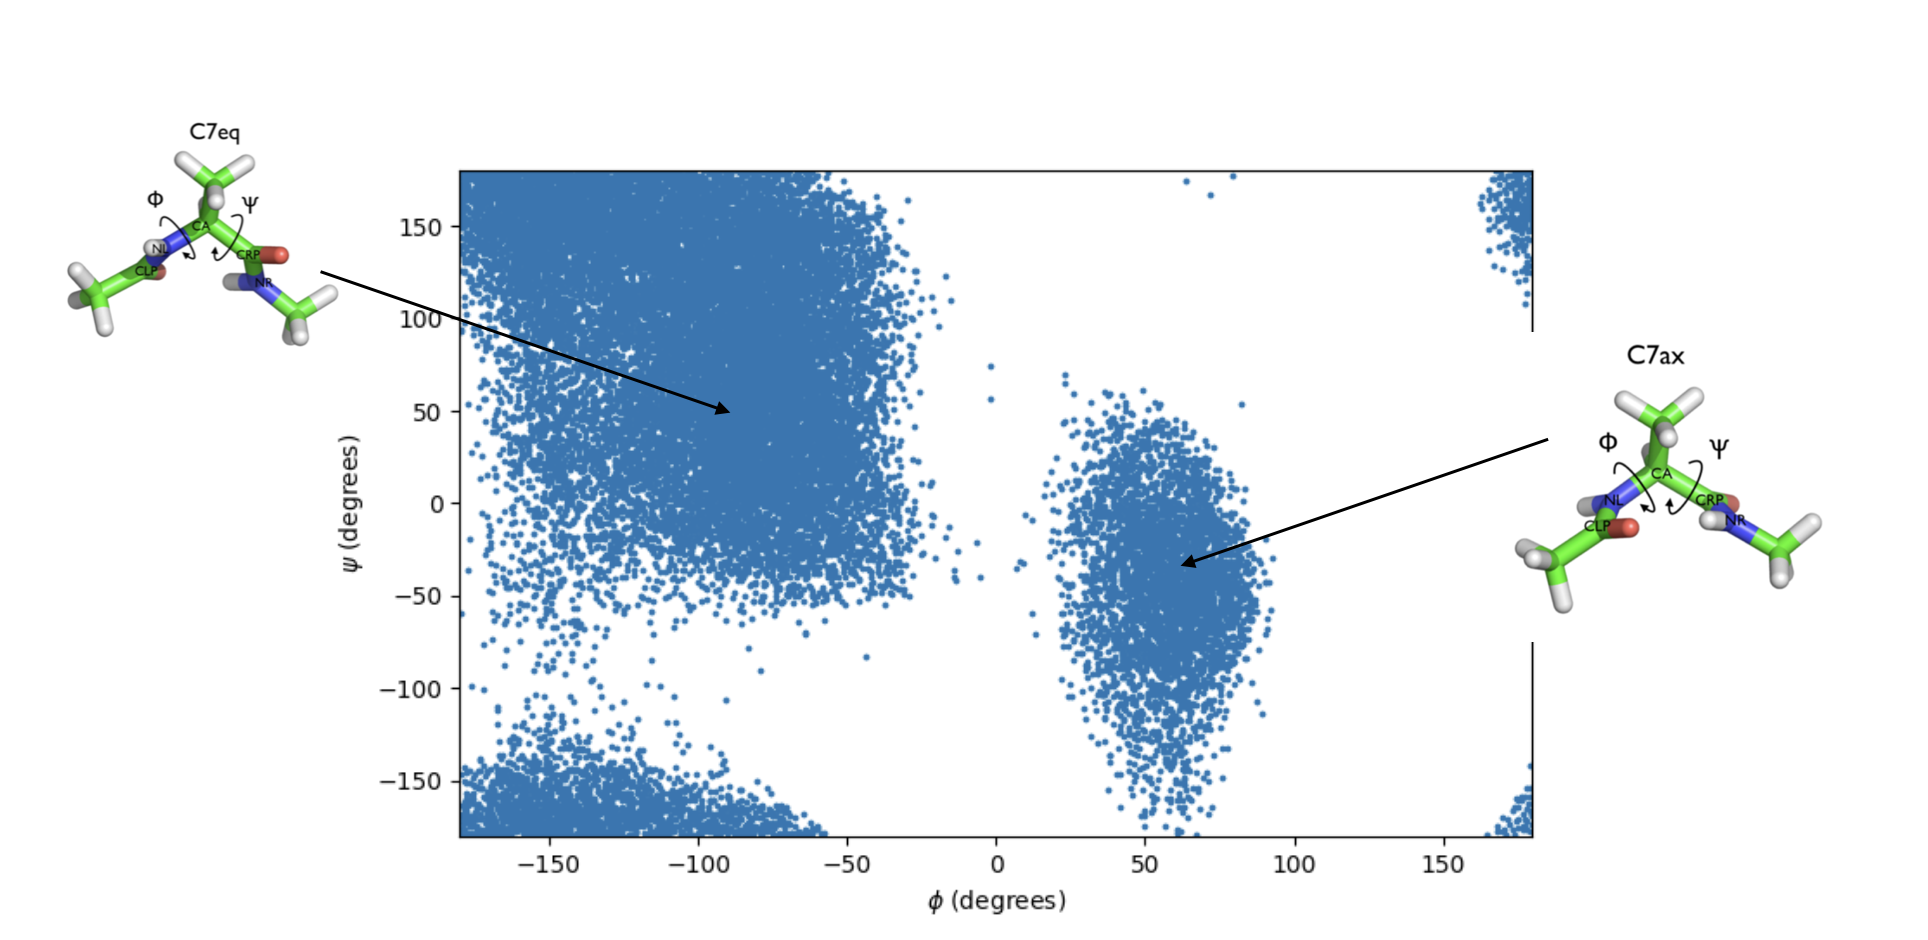
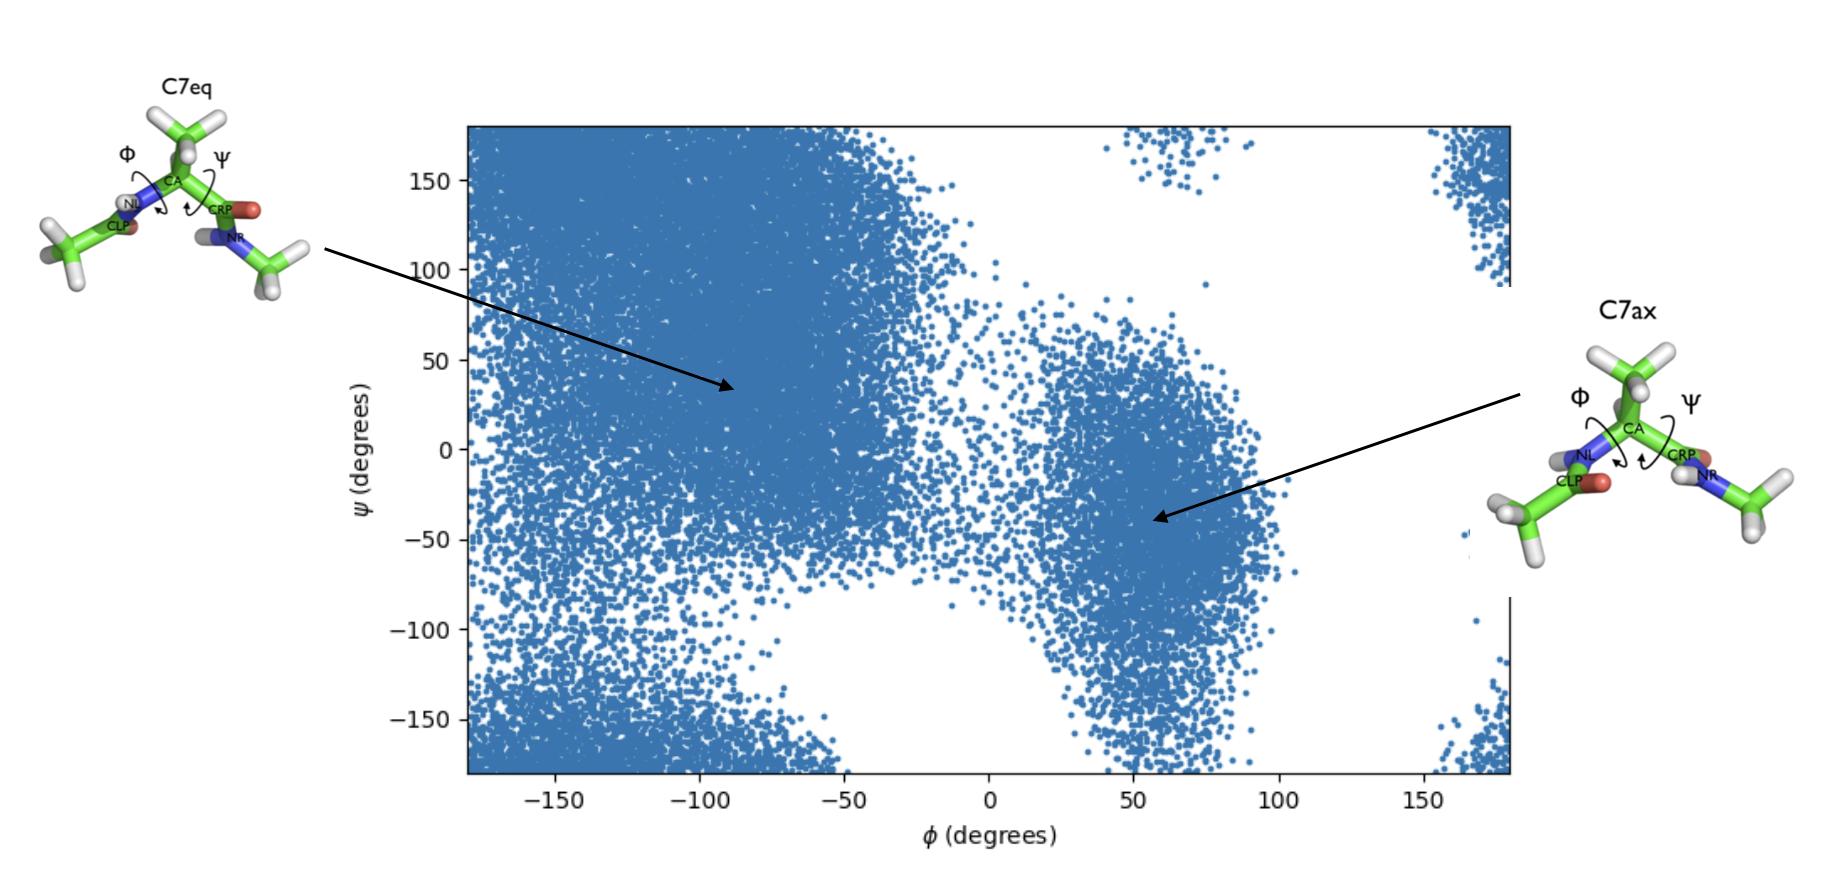
updated metadynamics tutorial

diff --git a/day2/metadynamics/metadynamics.md b/day2/metadynamics/metadynamics.md
@@ -253,7 +253,9 @@ Let's investigate what would happen if we had choosen to bias the $$\psi$$ angle
 Once your `plumed_metad_psi.dat` file is complete, run a metadynamics simulation with the following command:
 
 {% highlight git %}
-gmx mdrun -v -deffnm metad_run1 -plumed plumed_metad_psi.dat
+gmx grompp -f vacuum.mdp -c alanine_dipeptide.gro -p topol.top -o metad_run2.tpr
+
+gmx mdrun -v -deffnm metad_run2 -plumed plumed_metad_psi.dat
 {% endhighlight %}  
 
 When the job finishes, the output file will be `COLVAR_psi`. As you did earlier, transfer this file to your local Windows machine using WinSCP and plot the behavior of the CV during the simulation using the [Colab here](https://colab.research.google.com/drive/1zA_lNQPlknAXWwefqT6jc9Nm9-GoZTJv?usp=sharing). Here we will plot at the same time the evolution of the metadynamics CV $$\psi$$ and of the other dihedral $$\psi$$. 
@@ -266,7 +268,9 @@ Notice that something different happened compared to the previous metadynamics s
 
 ## Metadyanmics on two CVs and Reweighting
 
-The PLUMED input example, `plumed_metad_phi_psi.dat` will run a metadynamics simulation on both the $$\phi$$ and $$\psi$$ angles simultaneously. Biasing both $$\phi$$ and $$\psi$$ should allow us to exhaustively sample all possible configurations in the Ramachandran space. First, have a look at the `plumed_metad_phi_psi.dat` file and make sure you understand each section:
+The PLUMED input example, `plumed_metad_phi_psi.dat` will run a metadynamics simulation on both the $$\phi$$ and $$\psi$$ angles simultaneously. Including both angles as collective variables should promote transitions between the major conformational basins and allow the simulation to explore the Ramachandran free energy landscape more completely than when either angle is biased alone.
+
+First, have a look at the `plumed_metad_phi_psi.dat` file and make sure you understand each section:
 
 {% highlight git %}
 cat plumed_metad_phi_psi.dat
@@ -295,19 +299,28 @@ metad: METAD ...
     BIASFACTOR=8 
    # Gaussians will be written to HILLS file and stored on grid 
    FILE=HILLS GRID_MIN=-pi,-pi GRID_MAX=pi,pi
+   CALC_RCT # Added reweighting factor calculation here!!
+   TEMP=300
 ...
 
 # Print both collective variables on COLVAR file every 10 steps
-PRINT ARG=phi,psi,metad.bias FILE=COLVAR STRIDE=100
+PRINT ARG=phi,psi,metad.bias,metad.rbias FILE=COLVAR STRIDE=100
 {% endhighlight %}
 
-This file looks very similar to our previous ones except that in the METAD section we include both phi and psi as arguments with `ARG=phi,psi` (no spaces between commas in PLUMED), and we include a SIGMA value for each and the HILLS file will be on a 2D grid. 
+This file looks very similar to our previous ones except that in the METAD section we include both phi and psi as arguments with `ARG=phi,psi` (no spaces between commas in PLUMED), and we include a SIGMA value for each and the HILLS file will be on a 2D grid.  
+
+
+**Important**: Notice that the METAD action includes the `CALC_RCT` flag. This instructs PLUMED to calculate a weight factor that can be used for reweighting a well-tempered metadynamics trajectory by accounting for the added bias in our probability distrubtions. With this option enabled, PLUMED stores the weight as `metad.rbias`, which must also be printed to the output `COLVAR` file using the `PRINT` action. This quantity `metad.rbias` will be used for post-processing our biased trajectory to reconstruct unbiased histograms and free energy surfaces.
 
 After inspecting the input file, run the metadynamics simulation as:
 
 {% highlight git %}
-gmx mdrun -v -deffnm run1 -plumed plumed_metad_phi_psi.dat
+gmx grompp -f vacuum.mdp -c alanine_dipeptide.gro -p topol.top -o metad_run3.tpr
+
+gmx mdrun -v -deffnm metad_run3 -plumed plumed_metad_phi_psi.dat -nsteps 7500000
 {% endhighlight %}
+
+Here I have extended the number of MD steps to run to 7500000. Because both the $$\phi$$ and $$\psi$$ dihedral angles are biased simultaneously, the simulation must explore a larger conformational space than in the one-dimensional example, and therefore requires more sampling to approach convergence. This simulation should take a few minutes to complete.   
 
 The output files will be called `COLVAR` containing the information about the $$\phi$$ and $$\psi$$ values and `HILLS` containing information about the Gaussian hills deposited. 
 
@@ -317,27 +330,70 @@ Let's assess the sampling by looking at a 2D-Ramachandran plot. Transfer the `CO
 
 Here we see that we have sampled extensively the C7eq and C7ax states but relatively infrequently the transition states between them. 
 
-In the previous exercise where we biased only $$\phi$$, we computed the free energy as a function of the same variable directly from the sum of Gaussian kernels using the sum_hills utility. Now, when we bias both $$\phi$$ and $$\psi$$ simultaneously, the bias is a sum of two-dimensional Gaussians centered on pairs of $$\phi$$,$$\psi$$ values. 
+### Reweighting
+
+In the previous exercise where we biased only $$\phi$$, we computed the free energy as a function of the same variable directly from the sum of Gaussian kernels using the `sum_hills` utility. Now, when we run metadynamics on both $$\phi$$ and $$\psi$$ simultaneously, the total bias is a sum of two-dimensional Gaussians centered on pairs of $$\phi$$,$$\psi$$ values. 
   
-Additionally, in many cases you might decide that the variable you would like to analyze after having performed a metadynamics simulation is not the same variable that was biased. For example, you might want to calculate the free energy as a function of some collective variable other than those biased during the metadynamics simulation. 
+Additionally, in many cases you might decide that the variable you would like to analyze after having performed a metadynamics simulation is not the same variable as the one that was biased. 
 
 Earlier, when we analyzed a standard MD simulation in GROMACS (without metadynamics) you simply calculated histograms of these variables directly from your trajectory. Now, however, the presence of the metadynamics bias potential has altered the statistical weight of each frame, so we can't just calculate the histogram from the MD trajectory as before. To remove the effect of this bias (and thus be able to calculate properties of the system in the unbiased ensemble), you must reweight (unbias) your simulation. 
 
-There are several ways to calculate the correct statistical weight of each frame in your metadynamics trajectory and thus to reweight your simulation. In this exercise we will use the standard "umbrella sampling" idead and calculate the weight of each frame using the metadynamics bias potential obtained at the end of the simulation as the sum of all the Gaussians deposed during the simulation, and assuming a constant bias during the entire course of the simulation. 
+There are several ways to calculate the correct statistical weight of each frame in your metadynamics trajectory and thus to reweight your simulation. In this exercise we will use the time-dependent estimator of [Tiwary](https://pubs.acs.org/doi/10.1021/jp504920s) by using the `metad.rbias` column in the output `COLVAR` file. 
 
-In order to do this, we post-process our biased trajectory with a new PLUMED input file, called `plumed_reweight.dat`. This file is identical to the one used to run the metadynamics simulation except for a few modifications. First, we add the keyword `RESTART=YES` within the `METAD` action. This will tell PLUMED to read from the `HILLS` file to get the sum of Gaussians that have previously been accumulated. Second, we need to set the Gaussian HEIGHT to zero (now new Gaussians will be added) and the PACE to a large number. This will actually avoid adding new Gaussians (and even if they are added they will have zero height). Finally, we modify the `PRINT` statement so that the output file called `COLVAR_REWEIGHT` is written every frame. Here it is important that in addition to $$\phi$$ and $$\psi$$, you also print the metad.bias value. 
+Instead of using Python, we will calculate the histogram and corresponding free energy surface directly in PLUMED. To do this, we will use a new PLUMED input file, called `plumed_reweight.dat`. 
 
-The final version of the `plumed_reweight.dat` file looks like this:
+The `plumed_reweight.dat` file looks like this:
 
 {% highlight git %}
+# Read the variable we want to reweight from the COLVAR file
+rphi: READ FILE=COLVAR VALUES=phi IGNORE_TIME 
+rpsi: READ FILE=COLVAR VALUES=psi IGNORE_TIME
 
+# Also read the metad.bias and metad.rbias column from the COLVAR file
+metad: READ FILE=COLVAR VALUES=metad.* IGNORE_TIME
+
+# Use the rbias reweighting factor to get the weights for each frame
+weights: REWEIGHT_METAD ARG=metad.rbias TEMP=300
+
+# Now we can use PLUMED to build a histogram of the phi variable, and using the logweight for accounting for the effect of the bias. 
+
+phi_histo: HISTOGRAM ... 
+   ARG=rphi 
+   GRID_MIN=-pi GRID_MAX=pi GRID_BIN=50 
+   BANDWIDTH=0.05 
+   LOGWEIGHTS=weights 
+... 
+
+# Here is a histogram of the psi variable: 
+psi_histo: HISTOGRAM ...
+   ARG=rpsi 
+   GRID_MIN=-pi GRID_MAX=pi GRID_BIN=50 
+   BANDWIDTH=0.05 
+   LOGWEIGHTS=weights
+...
+
+# We could write the histogram directly, but first let's convert to a free energy surface using the CONVERT_TO_FES action:
+ 
+phi_fes: CONVERT_TO_FES GRID=phi_histo TEMP=300
+
+psi_fes: CONVERT_TO_FES GRID=psi_histo TEMP=300
+
+
+# Print out the reweighted free energies surfaces. Here caled fes-rw-phi.dat and fes-rw-psi.dat  
+
+DUMPGRID GRID=phi_fes FILE=fes-rw-phi.dat 
+
+DUMPGRID GRID=psi_fes FILE=fes-rw-psi.dat
 {% endhighlight %}
 
+In the above PLUMED input we are reading columns from the output COLVAR file, constructing a reweighted histogram accounting for the metadynamics bias, and outputing a one-dimensional free energy surface along each of the $$\phi$$ and $$\psi$$ angles. 
+  
 We can run this using the PLUMED driver by typing:
 
 {% highlight git %}
-plumed driver --mf_xtc traj_comp.xtc --plumed plumed_reweight.dat --kt 2.494339 
+plumed driver --plumed plumed_reweight.dat --noatoms  
 {% endhighlight %}
 
-Notice that you have to specify the value of RT in energy units. While running your simulation this information was communicated by the MD code
+The --noatoms flag is needed because we are not reading a trajectory file. Finally, tranfer the output free energy files: `fes-rw-phi.dat` and `fes-rw-psi.dat` to your local Windows computer using WinSCP.  
+
   